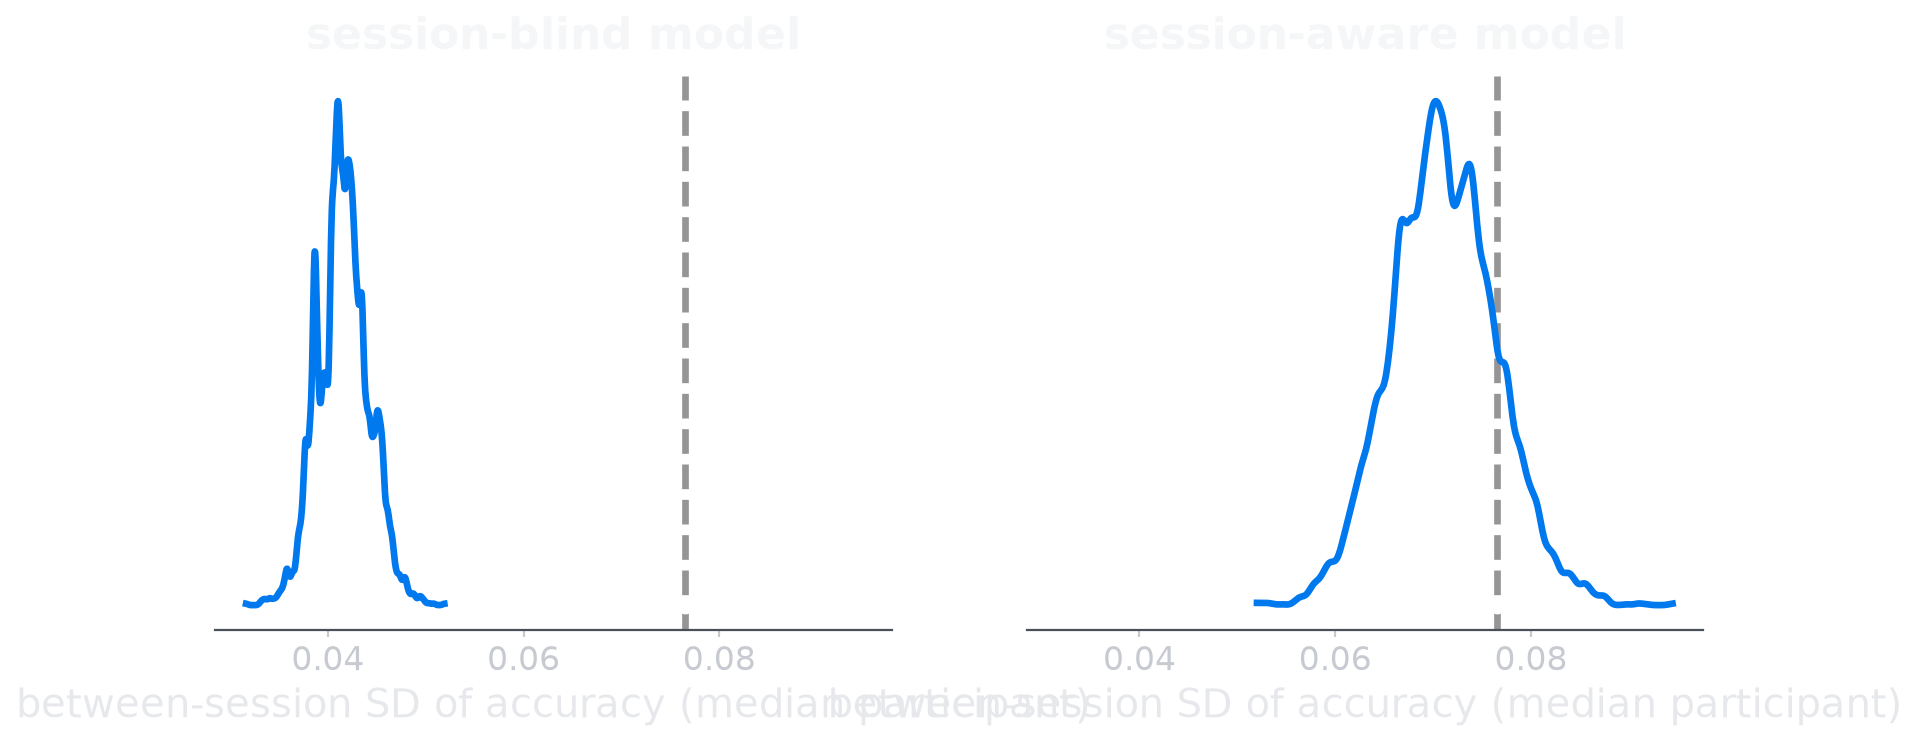
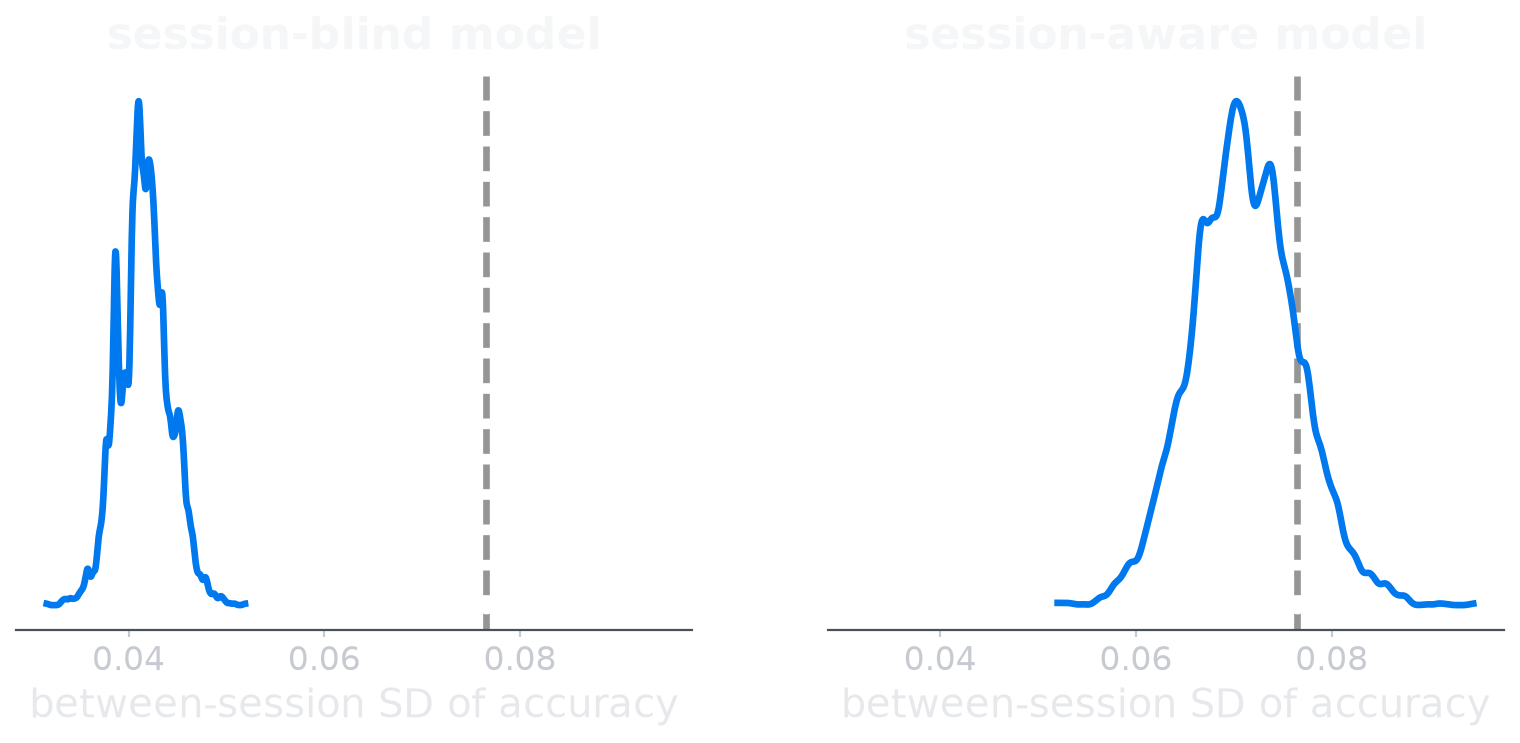
Talk: shorter axis label on the spread PPC

diff --git a/talk/figures/make_figures.py b/talk/figures/make_figures.py
@@ -250,7 +250,7 @@ def main():
         pc, float(between_session_sd(observed, train["n_trials"].to_numpy(), group)), color=TRUTHC, linestyle="--"
     )
     for name, plot in pc.viz["plot"].data_vars.items():
-        plot.item().set(title=name, xlabel="between-session SD of accuracy (median participant)")
+        plot.item().set(title=name, xlabel="between-session SD of accuracy")
     save(plt.gcf(), a.out, "fig07b_ppc_spread")
 
     # ---- coverage and PIT, one model per figure ----
